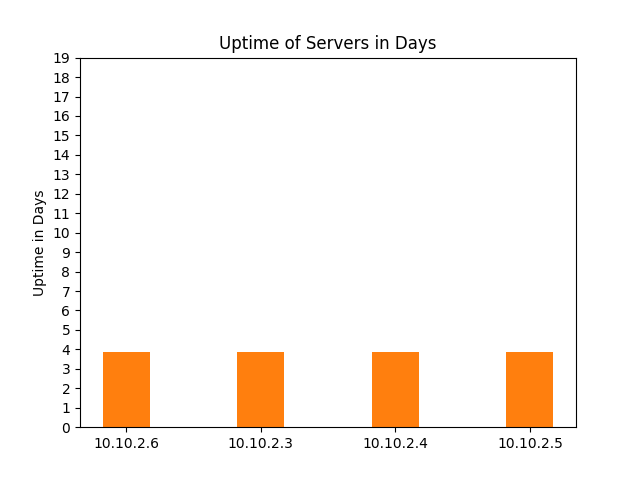
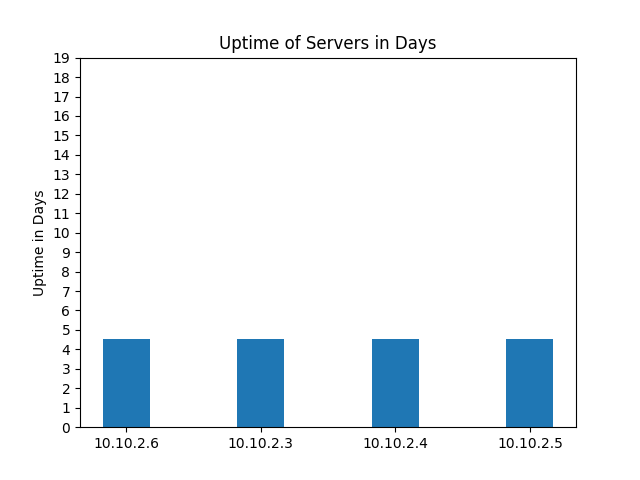
sql operations and python3

diff --git a/flaskapi/graphapp01.py b/flaskapi/graphapp01.py
@@ -20,6 +20,18 @@ def sshlogin(ip, un, passw):
     print(days)
     return days
 
+def xsshlogin(ip, un, passw):
+    sshsession = paramiko.SSHClient()    
+    sshsession.set_missing_host_key_policy(paramiko.AutoAddPolicy())
+    sshsession.connect(hostname=ip, username=un, password=passw)
+    ssh_stdin, ssh_stdout, ssh_stderr = sshsession.exec_command("uptime")
+    sshruntime = ssh_stdout.read().decode('utf-8').split()
+    frac_day = (((int(sshruntime[4][-3:-1])* 60 ) + (int(sshruntime[4][:2]) * 3600))/ 86400 )
+    days = int(sshruntime[2]) + frac_day
+    print(days)
+    print(f"Command run at: {sshruntime[0]}, Days up: {sshruntime[2]}, Hours:seconds: {sshruntime[4]}")
+    return days
+
 app = Flask(__name__)
 
 @app.route("/graphin")
@@ -30,7 +42,7 @@ def graphin():
     xtick = []
     for cred in creds:
         xtick.append(cred['ip'])
-        resp = sshlogin(cred['ip'], cred['un'], cred['passw'])
+        resp = xsshlogin(cred['ip'], cred['un'], cred['passw'])
         svruptime.append(resp)
     xtick = tuple(xtick) # create a tuple
     svruptime = tuple(svruptime)

diff --git a/sqldb/database03.py b/sqldb/database03.py
@@ -1,0 +1,18 @@
+#!/usr/bin/env python3
+
+import sqlite3
+conn = sqlite3.connect('test.db')
+print("Opened database successfully")
+
+conn.execute("INSERT INTO COMPANY (ID,NAME,AGE,ADDRESS,SALARY) VALUES (1, 'Paul', 32, 'California', 20000.00 )")
+
+conn.execute("INSERT INTO COMPANY (ID,NAME,AGE,ADDRESS,SALARY) VALUES (2, 'Allen', 25, 'Texas', 15000.00 )")
+
+conn.execute("INSERT INTO COMPANY (ID,NAME,AGE,ADDRESS,SALARY) VALUES (3, 'Teddy', 23, 'Norway', 20000.00 )")
+
+conn.execute("INSERT INTO COMPANY (ID,NAME,AGE,ADDRESS,SALARY) VALUES (4, 'Mark', 25, 'Rich-Mond ', 65000.00 )")
+
+conn.commit()
+print("Records created successfully")
+conn.close()
+

diff --git a/sqldb/database05.py b/sqldb/database05.py
@@ -1,0 +1,21 @@
+#!/usr/bin/env python3
+
+import sqlite3
+
+conn = sqlite3.connect('test.db')
+print("Opened database successfully")
+
+conn.execute("UPDATE COMPANY set SALARY = 25000.00 where ID = 1")
+conn.commit()
+print("Total number of rows updated :", conn.total_changes)
+
+cursor = conn.execute("SELECT id, name, address, salary from COMPANY")
+for row in cursor:
+    print("ID = ", row[0])
+    print("NAME = ", row[1])
+    print("ADDRESS = ", row[2])
+    print("SALARY = ", row[3], "\n")
+
+print("Operation done successfully")
+conn.close()
+

diff --git a/sqldb/database06.py b/sqldb/database06.py
@@ -1,0 +1,21 @@
+#!/usr/bin/env python3
+
+import sqlite3
+
+conn = sqlite3.connect('test.db')
+print("Opened database successfully")
+
+conn.execute("DELETE from COMPANY where ID = 2;")
+conn.commit()
+print("Total number of rows deleted :", conn.total_changes)
+
+cursor = conn.execute("SELECT id, name, address, salary from COMPANY")
+for row in cursor:
+    print("ID = ", row[0])
+    print("NAME = ", row[1])
+    print("ADDRESS = ", row[2])
+    print("SALARY = ", row[3], "\n")
+
+print("Operation done successfully")
+conn.close()
+

diff --git a/sqldb/database04.py b/sqldb/database04.py
@@ -1,0 +1,15 @@
+#!/usr/bin/env python3
+
+import sqlite3
+conn = sqlite3.connect('test.db')
+print("Opened database successfully")
+cursor = conn.execute("SELECT id, name, address, salary from COMPANY")
+for row in cursor:
+    print("ID = ", row[0])
+    print("NAME = ", row[1])
+    print("ADDRESS = ", row[2])
+    print("SALARY = ", row[3], "\n")
+
+print("Operation done successfully")
+conn.close()
+

diff --git a/sqldb/database02v2.py b/sqldb/database02v2.py
@@ -1,0 +1,14 @@
+#!/usr/bin/env python3
+
+import sqlite3
+conn = sqlite3.connect('test.db')
+print("Opened database successfully")
+conn.execute('''CREATE TABLE IF NOT EXISTS COMPANY
+ (ID INT PRIMARY KEY     NOT NULL,
+ NAME           TEXT    NOT NULL,
+ AGE            INT     NOT NULL,
+ ADDRESS        CHAR(50),
+ SALARY         REAL);''')
+print("Table created successfully")
+conn.close()
+

diff --git a/sqldb/database02.py b/sqldb/database02.py
@@ -1,0 +1,14 @@
+#!/usr/bin/env python3
+
+import sqlite3
+conn = sqlite3.connect('test.db')
+print("Opened database successfully")
+conn.execute('''CREATE TABLE COMPANY
+ (ID INT PRIMARY KEY     NOT NULL,
+ NAME           TEXT    NOT NULL,
+ AGE            INT     NOT NULL,
+ ADDRESS        CHAR(50),
+ SALARY         REAL);''')
+print("Table created successfully")
+conn.close()
+

diff --git a/sqldb/database01.py b/sqldb/database01.py
@@ -1,0 +1,6 @@
+#!/usr/bin/python3
+
+import sqlite3
+conn = sqlite3.connect('test.db')
+print("Opened database successfully")
+
